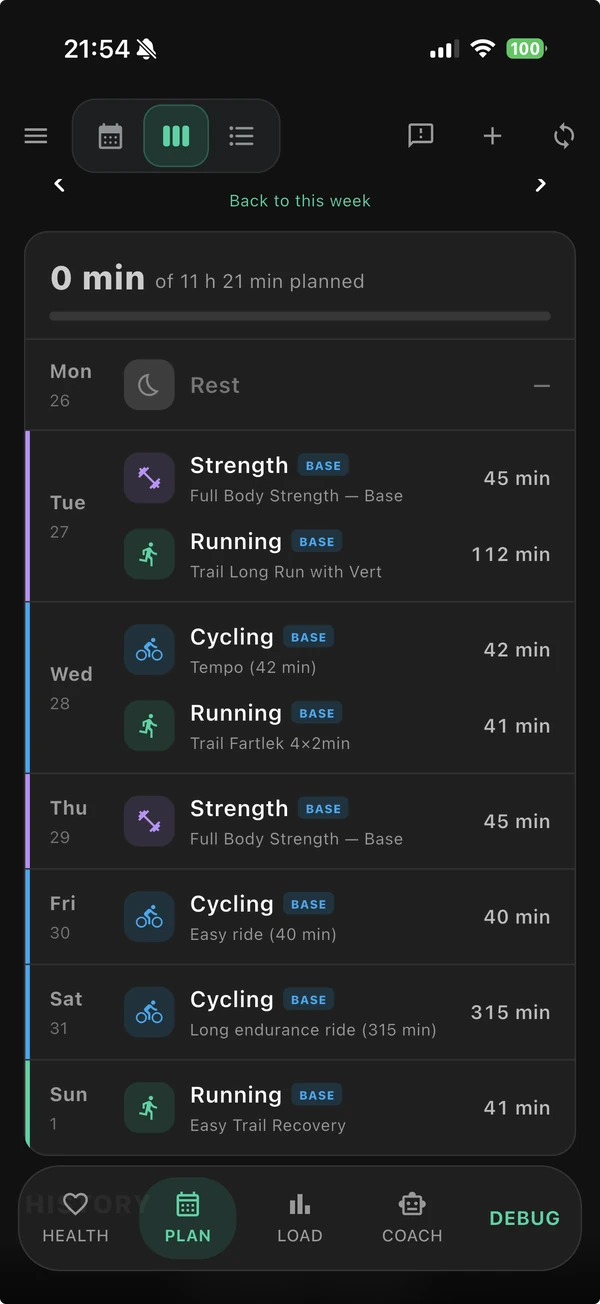
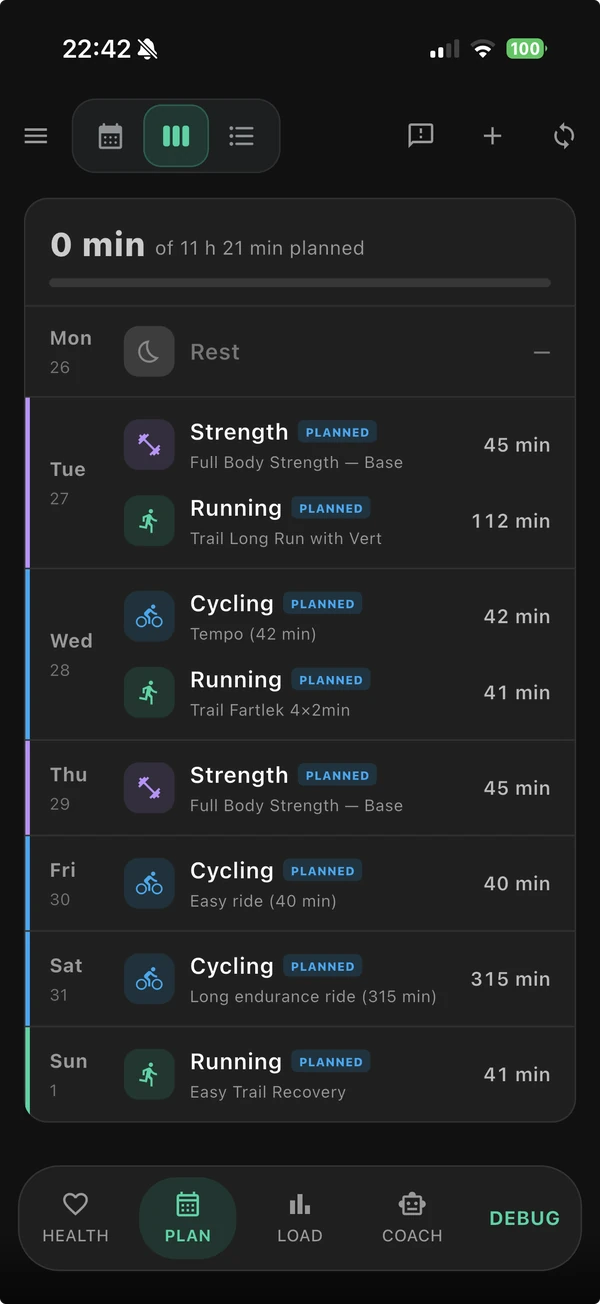
Add month preview and refresh planned week screenshot

diff --git a/docs/i18n.js b/docs/i18n.js
@@ -273,9 +273,11 @@ var copy = {
     "plan_views_label": "Choose a training plan screen",
     "plan_week_view": "Week view",
     "plan_goals_view": "Race goals",
-    "plan_week_description": "Your week with running, cycling, strength, rest days and multiple sessions on the same day.",
+    "plan_week_description": "Your planned week, with running, cycling, strength, rest days and multiple sessions on the same day.",
     "plan_goals_description": "Your races with priorities, distances, elevation, dates, target times and countdowns.",
-    "plan_capture_note": "Real app screenshots. Select a screen to enlarge."
+    "plan_capture_note": "Real app screenshots. Select a screen to enlarge.",
+    "plan_month_view": "Month view",
+    "plan_month_description": "A month of training, with sport colours and clear planned and completed markers."
   },
   "de": {
     "t000": "Zum Inhalt springen",
@@ -548,9 +550,11 @@ var copy = {
     "plan_views_label": "Trainingsansicht auswählen",
     "plan_week_view": "Wochenansicht",
     "plan_goals_view": "Wettkampfziele",
-    "plan_week_description": "Deine Woche mit Laufen, Radfahren, Krafttraining, Ruhetagen und mehreren Einheiten pro Tag.",
+    "plan_week_description": "Deine geplante Woche mit Laufen, Radfahren, Krafttraining, Ruhetagen und mehreren Einheiten pro Tag.",
     "plan_goals_description": "Deine Wettkämpfe mit Prioritäten, Distanzen, Höhenmetern, Terminen, Zielzeiten und Countdown.",
-    "plan_capture_note": "Echte App-Screenshots. Tippe auf eine Ansicht, um sie zu vergrößern."
+    "plan_capture_note": "Echte App-Screenshots. Tippe auf eine Ansicht, um sie zu vergrößern.",
+    "plan_month_view": "Monatsansicht",
+    "plan_month_description": "Ein Trainingsmonat mit Sportfarben und klaren Markierungen für geplante und absolvierte Einheiten."
   },
   "es": {
     "t000": "Saltar al contenido",
@@ -823,9 +827,11 @@ var copy = {
     "plan_views_label": "Elegir una vista del plan",
     "plan_week_view": "Vista semanal",
     "plan_goals_view": "Objetivos de carrera",
-    "plan_week_description": "Tu semana con carrera, ciclismo, fuerza, descanso y varias sesiones en un mismo día.",
+    "plan_week_description": "Tu semana planificada con carrera, ciclismo, fuerza, descanso y varias sesiones en un mismo día.",
     "plan_goals_description": "Tus carreras con prioridades, distancias, desnivel, fechas, tiempos objetivo y cuentas atrás.",
-    "plan_capture_note": "Capturas reales de la app. Selecciona una vista para ampliarla."
+    "plan_capture_note": "Capturas reales de la app. Selecciona una vista para ampliarla.",
+    "plan_month_view": "Vista mensual",
+    "plan_month_description": "Un mes de entrenamiento con colores por deporte y marcadores de sesiones planificadas y completadas."
   },
   "fr": {
     "t000": "Aller au contenu",
@@ -1098,9 +1104,11 @@ var copy = {
     "plan_views_label": "Choisir une vue du plan",
     "plan_week_view": "Vue semaine",
     "plan_goals_view": "Objectifs de course",
-    "plan_week_description": "Votre semaine avec course, vélo, renforcement, repos et plusieurs séances dans une journée.",
+    "plan_week_description": "Votre semaine prévue avec course, vélo, renforcement, repos et plusieurs séances dans une journée.",
     "plan_goals_description": "Vos courses avec priorités, distances, dénivelé, dates, temps visés et comptes à rebours.",
-    "plan_capture_note": "Captures réelles de l’app. Sélectionnez une vue pour l’agrandir."
+    "plan_capture_note": "Captures réelles de l’app. Sélectionnez une vue pour l’agrandir.",
+    "plan_month_view": "Vue mois",
+    "plan_month_description": "Un mois d’entraînement avec les couleurs des sports et des repères pour les séances prévues et terminées."
   },
   "it": {
     "t000": "Vai al contenuto",
@@ -1373,9 +1381,11 @@ var copy = {
     "plan_views_label": "Scegli una vista del piano",
     "plan_week_view": "Vista settimanale",
     "plan_goals_view": "Obiettivi di gara",
-    "plan_week_description": "La tua settimana con corsa, ciclismo, forza, riposo e più sessioni nello stesso giorno.",
+    "plan_week_description": "La tua settimana pianificata con corsa, ciclismo, forza, riposo e più sessioni nello stesso giorno.",
     "plan_goals_description": "Le tue gare con priorità, distanze, dislivello, date, tempi obiettivo e conti alla rovescia.",
-    "plan_capture_note": "Schermate reali dell’app. Seleziona una vista per ingrandirla."
+    "plan_capture_note": "Schermate reali dell’app. Seleziona una vista per ingrandirla.",
+    "plan_month_view": "Vista mensile",
+    "plan_month_description": "Un mese di allenamento con colori per sport e indicatori delle sessioni pianificate e completate."
   }
 };
 var supported = ['en','de','es','fr','it'];

diff --git a/docs/index.html b/docs/index.html
@@ -10,7 +10,7 @@
 <link href="https://agilastic.github.io/fjelia/" rel="canonical"/>
 <link href="favicon.ico" rel="icon" sizes="any"/>
 <link href="apple-touch-icon.png" rel="apple-touch-icon"/>
-<link href="style.css?v=20261025cycle1" rel="stylesheet"/>
+<link href="style.css?v=20261025planned3" rel="stylesheet"/>
 <meta content="website" property="og:type"/>
 <meta content="Fjelia — Know your body. Train smarter." property="og:title"/>
 <meta content="All your health devices. One intelligent view. Free, open source, private by design." property="og:description"/>
@@ -151,14 +151,21 @@
 <div class="season-showcase">
 <div class="plan-view-picker" role="group" aria-label="Choose a training plan screen" hidden>
 <button type="button" id="plan-tab-week" data-plan-view="week" aria-controls="plan-view-week"><span data-i18n="plan_week_view">Week view</span></button>
+<button type="button" id="plan-tab-month" data-plan-view="month" aria-controls="plan-view-month"><span data-i18n="plan_month_view">Month view</span></button>
 <button type="button" id="plan-tab-goals" data-plan-view="goals" aria-controls="plan-view-goals"><span data-i18n="plan_goals_view">Race goals</span></button>
 </div>
 <div class="plan-captures">
 <figure class="plan-view" id="plan-view-week" data-plan-panel="week">
-<a class="plan-capture-link" href="img/plan-week-real.webp" data-caption="Week view" aria-label="Enlarge screenshot: Week view">
-<img src="img/plan-week-real-600.webp" srcset="img/plan-week-real-600.webp 600w, img/plan-week-real-942.webp 942w" sizes="(max-width: 366px) calc(100vw - 2.5rem), 326px" alt="Your week with running, cycling, strength, rest days and multiple sessions on the same day." width="1206" height="2622" loading="lazy" decoding="async"/>
+<a class="plan-capture-link" href="img/plan-week-real.webp?v=20261025planned" data-caption="Week view" aria-label="Enlarge screenshot: Week view">
+<img src="img/plan-week-real-600.webp?v=20261025planned" srcset="img/plan-week-real-600.webp?v=20261025planned 600w, img/plan-week-real-942.webp?v=20261025planned 942w" sizes="(max-width: 366px) calc(100vw - 2.5rem), 326px" alt="Your planned week, with running, cycling, strength, rest days and multiple sessions on the same day." width="1206" height="2622" loading="lazy" decoding="async"/>
 <span aria-hidden="true" class="enlarge">↗</span></a>
-<figcaption><h3 data-i18n="plan_week_view">Week view</h3><p data-i18n="plan_week_description">Your week with running, cycling, strength, rest days and multiple sessions on the same day.</p></figcaption>
+<figcaption><h3 data-i18n="plan_week_view">Week view</h3><p data-i18n="plan_week_description">Your planned week, with running, cycling, strength, rest days and multiple sessions on the same day.</p></figcaption>
+</figure>
+<figure class="plan-view" id="plan-view-month" data-plan-panel="month">
+<a class="plan-capture-link" href="img/plan-month-real.webp" data-caption="Month view" aria-label="Enlarge screenshot: Month view">
+<img src="img/plan-month-real-600.webp" srcset="img/plan-month-real-600.webp 600w, img/plan-month-real-942.webp 942w" sizes="(max-width: 366px) calc(100vw - 2.5rem), 326px" alt="A month of training, with sport colours and clear planned and completed markers." width="1206" height="2622" loading="lazy" decoding="async"/>
+<span aria-hidden="true" class="enlarge">↗</span></a>
+<figcaption><h3 data-i18n="plan_month_view">Month view</h3><p data-i18n="plan_month_description">A month of training, with sport colours and clear planned and completed markers.</p></figcaption>
 </figure>
 <figure class="plan-view" id="plan-view-goals" data-plan-panel="goals">
 <a class="plan-capture-link" href="img/plan-goals-real.webp" data-caption="Race goals" aria-label="Enlarge screenshot: Race goals">
@@ -470,6 +477,6 @@
 <button aria-label="Close screenshot" class="dialog-close" data-i18n="t150" type="button">Close <span aria-hidden="true">×</span></button></div>
 <img alt=""/>
 </dialog>
-<script defer="" src="i18n.js?v=20261025cycle1"></script><script defer="" src="site.js?v=20261025cycle1"></script>
+<script defer="" src="i18n.js?v=20261025planned3"></script><script defer="" src="site.js?v=20261025planned3"></script>
 </body>
 </html>

diff --git a/docs/style.css b/docs/style.css
@@ -525,9 +525,9 @@ section[id], [id].privacy-card, [id].sports-compact { scroll-margin-top: 90px; }
 .plan-points h3 { font-size: 1rem; }
 .plan-points p { color: var(--muted); font-size: .95rem; margin: .3rem 0 0; }
 .season-showcase { width: min(100%, 326px); margin: 0 auto; }
-.plan-view-picker { display: grid; grid-template-columns: 1fr 1fr; gap: 4px; margin-bottom: 1rem; padding: 4px; border: 1px solid var(--border); border-radius: 99px; background: #06132b; }
+.plan-view-picker { display: grid; grid-template-columns: repeat(3, minmax(0, 1fr)); gap: 4px; margin-bottom: 1rem; padding: 4px; border: 1px solid var(--border); border-radius: 99px; background: #06132b; }
 .plan-view-picker[hidden], .plan-view[hidden] { display: none !important; }
-.plan-view-picker button { min-height: 44px; padding: 7px 10px; border: 0; border-radius: 99px; background: transparent; color: var(--muted); font-size: .78rem; line-height: 1.4; cursor: pointer; }
+.plan-view-picker button { min-height: 44px; padding: 7px 6px; border: 0; border-radius: 99px; background: transparent; color: var(--muted); font-size: .74rem; line-height: 1.4; hyphens: auto; overflow-wrap: anywhere; cursor: pointer; }
 .plan-view-picker button[aria-selected="true"] { color: #9aedee; background: #153a45; }
 .plan-view { margin: 0; }
 .plan-capture-link { position: relative; display: block; width: 100%; aspect-ratio: 1206 / 2622; padding: 5px; overflow: hidden; border: 1px solid #79cbd48a; border-radius: 36px; background: #111; box-shadow: 0 28px 60px #0005, 0 0 50px #2bd9a80a; cursor: zoom-in; }
